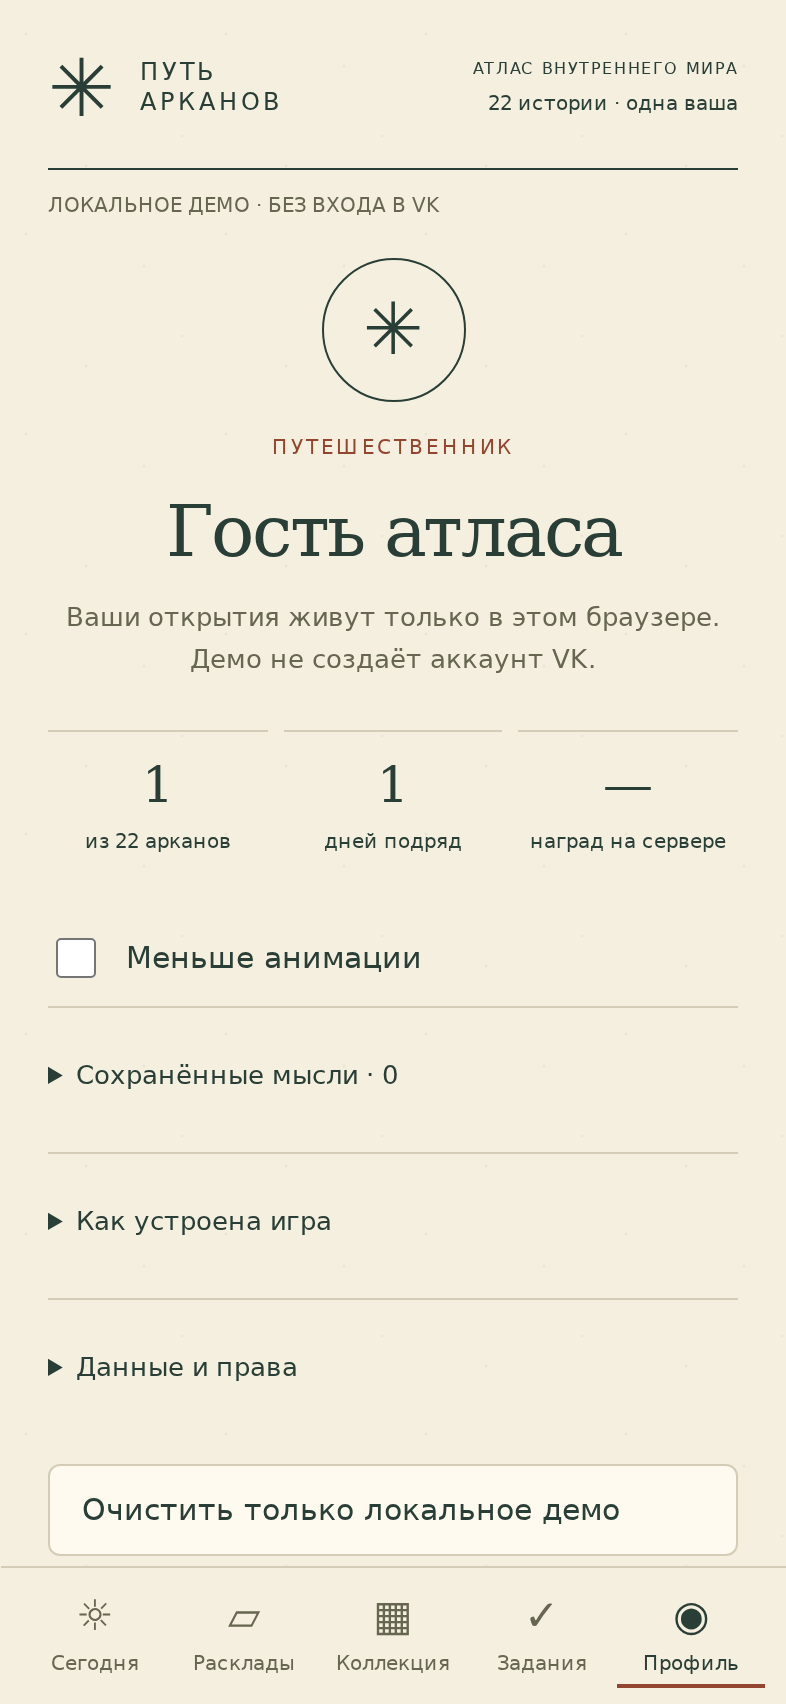
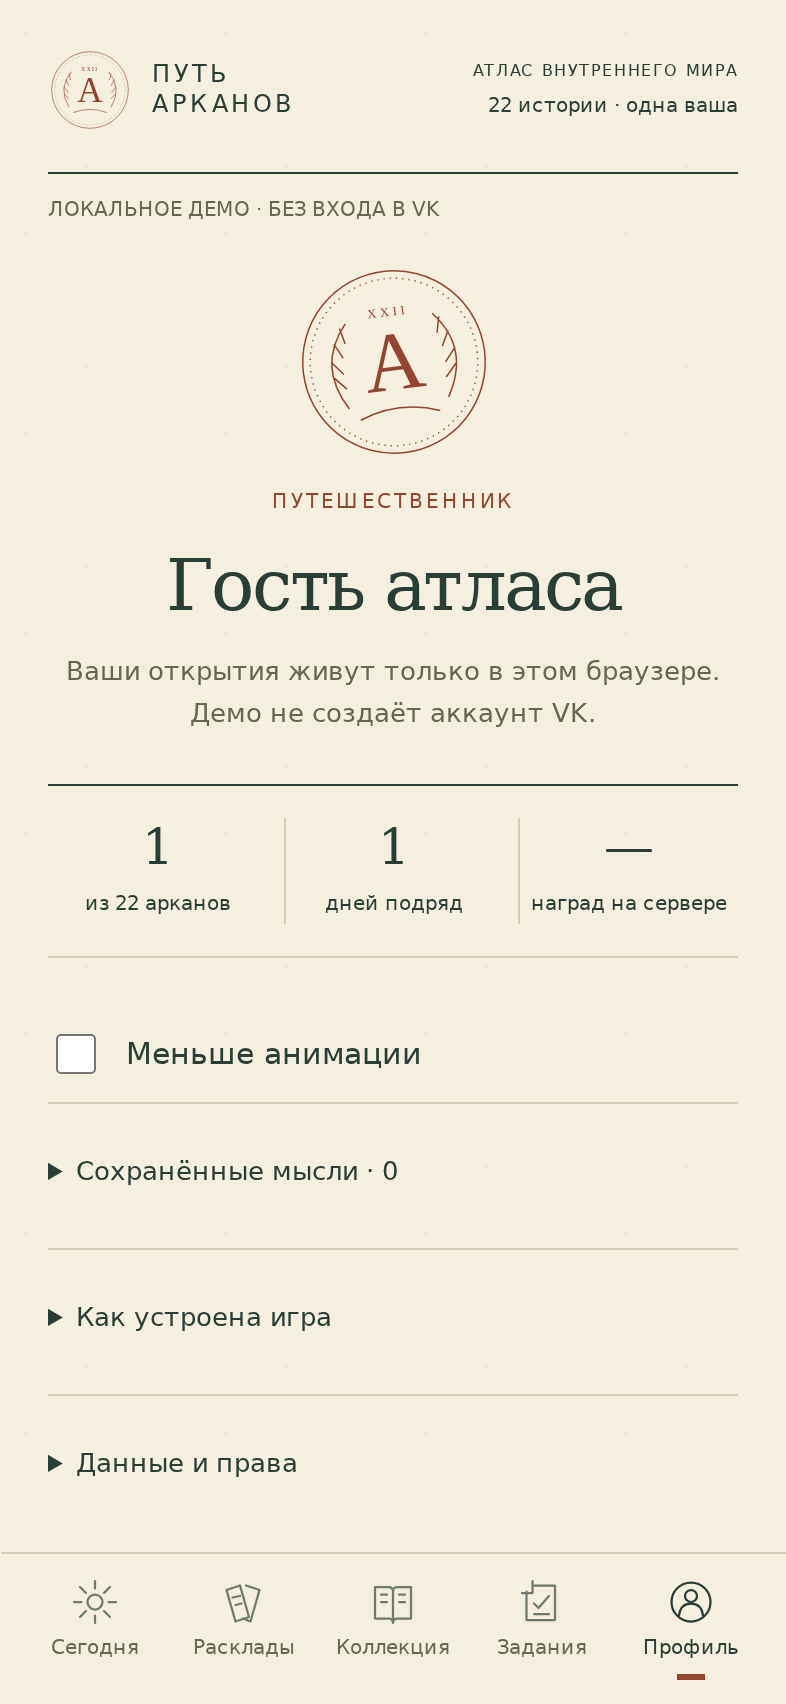
design(v6): give the atlas original seals, folios and compact card galleries

diff --git a/v6/app.js b/v6/app.js
@@ -40,7 +40,7 @@ function progressMeter(){
   const meter=el('progress','meter');meter.max=22;meter.value=count;meter.setAttribute('aria-label','Собрано арканов');
   section.append(row,meter,el('p','small',count===22?'Атлас собран. У знакомых карт всегда есть новые вопросы.':`Следующая глава — ${count<5?'5':count<10?'10':'22'} открытых арканов. Возвращайтесь за новой картой.`));return section;
 }
-function topicPicker(){const group=el('div','topics');group.setAttribute('role','group');group.setAttribute('aria-label','Тема размышления');TOPICS.forEach(t=>{const b=button('',()=>{topic=t.id;render();});b.setAttribute('aria-pressed',String(topic===t.id));b.append(el('span','topic-icon',t.icon),el('span','',t.name));group.append(b);});return group;}
+function topicPicker(){const group=el('div','topics');group.setAttribute('role','group');group.setAttribute('aria-label','Тема размышления');TOPICS.forEach((t,i)=>{const b=button('',()=>{topic=t.id;render();});b.setAttribute('aria-pressed',String(topic===t.id));b.append(el('span','topic-icon',String(i+1).padStart(2,'0')),el('span','',t.name));group.append(b);});return group;}
 function renderToday(){
   const head=el('header','today-heading'),date=new Intl.DateTimeFormat('ru',{day:'numeric',month:'long',timeZone:'UTC'}).format(new Date(progress.dayUtc+'T12:00:00Z'));
   head.append(el('p','eyebrow',`${date} · ${mode==='demo'?'дата устройства':'дата сервера'} · UTC`),el('h1','',progress.dailyCardDrawn?'Ваша история сегодня':'Маленькая пауза.\nНовый взгляд.'),el('p','intro',progress.dailyCardDrawn?'Одна карта. Столько способов услышать себя.':'Сделайте вдох. Коснитесь колоды и найдите мысль, которую возьмёте с собой.'));
@@ -72,7 +72,7 @@ async function drawDaily(){
 function renderReadings(){
   main.append(header('ЗАЛ РАСКЛАДОВ','О чём поговорим?','Выберите тему. Карты предложат вопросы — ответы остаются за вами.'),topicPicker());
   const options=el('div','spread-options');
-  for(const count of [1,3]){const b=operation('',()=>drawSpread(count),'');b.id=`spread-${count}`;b.disabled=busy||(mode==='signed'&&!verified);b.append(el('strong','',count===1?'Одна карта':'Три карты'),el('small','',count===1?'Один вопрос.\nНовый угол зрения.':'Опыт, настоящее\nи следующий шаг.'));options.append(b);}main.append(options);
+  for(const count of [1,3]){const b=operation('',()=>drawSpread(count),'');b.id=`spread-${count}`;b.disabled=busy||(mode==='signed'&&!verified);b.append(el('span','spread-number',count===1?'I':'III'),el('strong','',count===1?'Одна карта':'Три карты'),el('small','',count===1?'Один вопрос.\nНовый угол зрения.':'Опыт, настоящее\nи следующий шаг.'));options.append(b);}main.append(options);
   if(!spread){main.append(el('p','subtle','Расклады не расходуют и не начисляют награды.'));return;}
   const activeTopic=TOPICS.find(t=>t.id===spreadTopic);main.append(el('p','eyebrow',`Расклад · ${activeTopic.name}`));
   const deck=el('div','spread-deck'+(spread.cards.length===1?' single':''));deck.id='reading-deck';
@@ -96,8 +96,10 @@ async function drawSpread(count){
 }
 function renderCollection(){
   main.append(header('ВАШ ЛИЧНЫЙ АТЛАС','Коллекция арканов',`${progress.arcana.length} из 22 историй открыто. Каждая карта — новая грань знакомого мира.`));
+  const folio=el('div','catalog-folio');folio.append(el('span','','СТАРШИЕ АРКАНЫ'),el('span','',`${String(progress.arcana.length).padStart(2,'0')} / XXII`));main.append(folio);
   const grid=el('div','collection-grid');grid.id='collection-grid';
-  ARCANA.forEach(c=>{const known=progress.arcana.includes(c.id),b=button('',()=>showDetail(c.id,known),'collection-card'+(known?'':' locked'));b.setAttribute('aria-label',known?`Открыто: ${c.name}`:`Не открыт: аркан ${c.id}`);b.append(picture(c.id,!known),el('span','',known?c.name:'Неизвестный аркан'),el('span','number',String(c.id).padStart(2,'0')));grid.append(b);});main.append(grid);
+  const catalog=[...ARCANA].sort((a,b)=>Number(progress.arcana.includes(b.id))-Number(progress.arcana.includes(a.id)));
+  catalog.forEach(c=>{const known=progress.arcana.includes(c.id),b=button('',()=>showDetail(c.id,known),'collection-card'+(known?'':' locked'));b.setAttribute('aria-label',known?`Открыто: ${c.name}`:`Не открыт: аркан ${c.id}`);b.append(picture(c.id,!known),el('span','',known?c.name:'Неизвестный аркан'),el('span','number',String(c.id).padStart(2,'0')));grid.append(b);});main.append(grid);
 }
 function showDetail(id,known){
   const c=ARCANA[id],root=$('detail-content');root.replaceChildren();const heading=el('h2','',known?c.name:'Ещё одна история впереди');heading.id='detail-title';
@@ -118,7 +120,7 @@ async function claimDaily(){
   catch(e){if(epoch===generation)handleError(e);}finally{if(epoch===generation){setBusy(false);render();}}
 }
 function renderProfile(){
-  const head=el('div','profile-title');head.append(el('div','profile-emblem','✳'),el('p','eyebrow','ПУТЕШЕСТВЕННИК'),el('h1','',mode==='demo'?'Гость атласа':nickname||'Ваш путь'),el('p','intro',mode==='demo'?'Ваши открытия живут только в этом браузере. Демо не создаёт аккаунт VK.':verified?'Ваши карты и серия дней подтверждены сервером.':'Откройте приложение через VK для подтверждения входа.'));main.append(head);
+  const head=el('div','profile-title'),seal=el('img','profile-emblem');seal.src='./assets/seal.svg';seal.alt='';seal.width=100;seal.height=100;head.append(seal,el('p','eyebrow','ПУТЕШЕСТВЕННИК'),el('h1','',mode==='demo'?'Гость атласа':nickname||'Ваш путь'),el('p','intro',mode==='demo'?'Ваши открытия живут только в этом браузере. Демо не создаёт аккаунт VK.':verified?'Ваши карты и серия дней подтверждены сервером.':'Откройте приложение через VK для подтверждения входа.'));main.append(head);
   const stats=el('div','stats');[[progress.arcana.length,'из 22 арканов'],[progress.streak,'дней подряд'],[mode==='demo'?'—':progress.crystals,'наград на сервере']].forEach(([value,label])=>{const stat=el('div','stat');stat.append(el('strong','',value),el('span','',label));stats.append(stat);});main.append(stats);
   if(mode==='signed'&&verified){main.append(operation('Обновить прогресс с сервера',loadSigned,''),button('Показать моё имя из VK',loadNickname,'link-button'));}
   const label=el('label','settings'),check=el('input');check.type='checkbox';check.checked=document.body.classList.contains('reduce-motion');check.addEventListener('change',()=>{document.body.classList.toggle('reduce-motion',check.checked);try{storage.setItem('arcana.v6.motion',check.checked?'reduce':'system');}catch{}});label.append(check,el('span','','Меньше анимации'));main.append(label);

diff --git a/v6/demo.html b/v6/demo.html
@@ -1,0 +1,37 @@
+<!doctype html>
+<html lang="ru">
+<head>
+  <meta name="arcana-demo-only" content="true">
+  <meta charset="utf-8">
+  <meta name="viewport" content="width=device-width, initial-scale=1, viewport-fit=cover">
+  <meta name="referrer" content="no-referrer">
+  <meta name="robots" content="noindex,nofollow,noarchive">
+  <meta http-equiv="Content-Security-Policy" content="default-src 'none'; script-src 'self'; style-src 'self'; font-src 'self'; img-src 'self'; connect-src 'self'; worker-src 'self'; manifest-src 'self'; base-uri 'none'; form-action 'none'">
+  <meta name="theme-color" content="#f5efdf">
+  <title>Путь Арканов · маленький ритуал для себя</title>
+  <script src="./vendor/vk-bridge-2.14.0.min.js"></script>
+  <script src="./startup.js"></script>
+  <link rel="stylesheet" href="./style.css">
+  <script type="module" src="./app.js"></script>
+</head>
+<body>
+  <a class="skip" href="#content">К содержимому</a>
+  <div class="app-shell">
+    <header class="masthead"><a href="./index.html" class="brand" aria-label="Путь Арканов, главная"><img src="./assets/seal.svg" width="42" height="42" alt=""><span>ПУТЬ<br>АРКАНОВ</span></a><span class="edition">АТЛАС ВНУТРЕННЕГО МИРА<br><b>22 истории · одна ваша</b></span></header>
+    <div class="mode-line"><span id="mode">Открываем колоду…</span><span id="connection"></span></div>
+    <aside id="notice" role="status" aria-live="polite" hidden></aside>
+    <div id="recovery" hidden><button id="retry" type="button">Повторить соединение</button><button id="demo" type="button">Открыть локальное демо</button><p>Если сам адрес не открывается, смените сеть или используйте альтернативную демо-ссылку из отчёта проверки. Перезагрузка интерфейса не устраняет блокировку хостинга.</p></div>
+    <main id="content" tabindex="-1"><h1>Маленькая пауза.<br>Новый взгляд.</h1><p>Колода загружается. Если это занимает больше нескольких секунд, проверьте соединение.</p><button type="button" id="startup-retry" hidden>Загрузить ещё раз</button></main>
+    <footer class="disclaimer">Для размышления, а не предсказания будущего.</footer>
+  </div>
+  <nav class="bottom-nav" aria-label="Разделы игры">
+    <button type="button" data-tab="today" aria-current="page"><img src="./assets/nav-today.svg" width="24" height="24" alt="">Сегодня</button>
+    <button type="button" data-tab="readings"><img src="./assets/nav-readings.svg" width="24" height="24" alt="">Расклады</button>
+    <button type="button" data-tab="collection"><img src="./assets/nav-collection.svg" width="24" height="24" alt="">Коллекция</button>
+    <button type="button" data-tab="quests"><img src="./assets/nav-quests.svg" width="24" height="24" alt="">Задания</button>
+    <button type="button" data-tab="profile"><img src="./assets/nav-profile.svg" width="24" height="24" alt="">Профиль</button>
+  </nav>
+  <dialog id="details" aria-labelledby="detail-title"><button type="button" id="close-details" aria-label="Закрыть карточку">×</button><div id="detail-content"></div></dialog>
+  <noscript><p>Для переворота карт нужен JavaScript. Разрешите его для этой страницы и обновите её. Данные ВК без подтверждённого входа недоступны.</p></noscript>
+</body>
+</html>

diff --git a/v6/index.html b/v6/index.html
@@ -16,7 +16,7 @@
 <body>
   <a class="skip" href="#content">К содержимому</a>
   <div class="app-shell">
-    <header class="masthead"><a href="./index.html" class="brand" aria-label="Путь Арканов, главная"><span aria-hidden="true">✳</span><span>ПУТЬ<br>АРКАНОВ</span></a><span class="edition">АТЛАС ВНУТРЕННЕГО МИРА<br><b>22 истории · одна ваша</b></span></header>
+    <header class="masthead"><a href="./index.html" class="brand" aria-label="Путь Арканов, главная"><img src="./assets/seal.svg" width="42" height="42" alt=""><span>ПУТЬ<br>АРКАНОВ</span></a><span class="edition">АТЛАС ВНУТРЕННЕГО МИРА<br><b>22 истории · одна ваша</b></span></header>
     <div class="mode-line"><span id="mode">Открываем колоду…</span><span id="connection"></span></div>
     <aside id="notice" role="status" aria-live="polite" hidden></aside>
     <div id="recovery" hidden><button id="retry" type="button">Повторить соединение</button><button id="demo" type="button">Открыть локальное демо</button><p>Если сам адрес не открывается, смените сеть или используйте альтернативную демо-ссылку из отчёта проверки. Перезагрузка интерфейса не устраняет блокировку хостинга.</p></div>
@@ -24,11 +24,11 @@
     <footer class="disclaimer">Для размышления, а не предсказания будущего.</footer>
   </div>
   <nav class="bottom-nav" aria-label="Разделы игры">
-    <button type="button" data-tab="today" aria-current="page"><span aria-hidden="true">☼</span>Сегодня</button>
-    <button type="button" data-tab="readings"><span aria-hidden="true">▱</span>Расклады</button>
-    <button type="button" data-tab="collection"><span aria-hidden="true">▦</span>Коллекция</button>
-    <button type="button" data-tab="quests"><span aria-hidden="true">✓</span>Задания</button>
-    <button type="button" data-tab="profile"><span aria-hidden="true">◉</span>Профиль</button>
+    <button type="button" data-tab="today" aria-current="page"><img src="./assets/nav-today.svg" width="24" height="24" alt="">Сегодня</button>
+    <button type="button" data-tab="readings"><img src="./assets/nav-readings.svg" width="24" height="24" alt="">Расклады</button>
+    <button type="button" data-tab="collection"><img src="./assets/nav-collection.svg" width="24" height="24" alt="">Коллекция</button>
+    <button type="button" data-tab="quests"><img src="./assets/nav-quests.svg" width="24" height="24" alt="">Задания</button>
+    <button type="button" data-tab="profile"><img src="./assets/nav-profile.svg" width="24" height="24" alt="">Профиль</button>
   </nav>
   <dialog id="details" aria-labelledby="detail-title"><button type="button" id="close-details" aria-label="Закрыть карточку">×</button><div id="detail-content"></div></dialog>
   <noscript><p>Для переворота карт нужен JavaScript. Разрешите его для этой страницы и обновите её. Данные ВК без подтверждённого входа недоступны.</p></noscript>

diff --git a/v6/style.css b/v6/style.css
@@ -7,3 +7,41 @@
 @media(min-width:700px){.app-shell{padding-top:36px}.stage{min-height:350px}.stage>.flip-card{width:192px}}
 
 .preserve-lines{white-space:pre-line}.reversed-art{transform:rotate(180deg)}
+
+/* The atlas uses the grammar of a printed field journal: folios, ruled
+   indexes, a publisher's seal and a walking line through daily tasks. */
+.app-shell{padding-top:max(24px,env(safe-area-inset-top))}
+.brand img{display:block;width:42px;height:42px}
+.bottom-nav img{display:block;width:24px;height:24px;opacity:.65}
+.bottom-nav [aria-current] img{opacity:1}
+.bottom-nav button[aria-current]{box-shadow:none}
+.bottom-nav button[aria-current]:after{content:'';height:3px;width:14px;background:var(--accent);margin-top:2px}
+.stage:after{content:'ЕЖЕДНЕВНЫЙ РИТУАЛ';writing-mode:vertical-rl;font-family:var(--sans);font-size:8px;letter-spacing:2.5px;right:3%;top:78px}
+.primary{border-radius:2px}
+.topics{gap:0 18px}
+.topics button{border:0;border-bottom:1px solid var(--line);border-radius:0;padding:13px 0;min-height:54px}
+.topics button[aria-pressed=true]{background:transparent;color:var(--ink);border-bottom:2px solid var(--accent)}
+.topics .topic-icon{font-family:var(--serif);font-size:15px;color:var(--muted)}
+.topics button[aria-pressed=true] .topic-icon{color:var(--accent)}
+.spread-options{gap:20px;margin-top:26px}
+.spread-options button{border:0;border-top:1px solid var(--ink);border-bottom:1px solid var(--line);border-radius:0;background:transparent;padding:14px 0 18px}
+.spread-number{display:block;font-family:var(--serif);font-size:44px;line-height:1.1;color:var(--accent);margin-bottom:12px}
+.spread-options small{white-space:pre-line;color:var(--muted)}
+.catalog-folio{display:flex;justify-content:space-between;gap:12px;font-size:9px;letter-spacing:1.5px;border-bottom:1px solid var(--ink);padding-bottom:12px;margin-bottom:20px}
+.collection-card img{height:auto;border-radius:2px}
+.collection-card .number{font-family:var(--serif);font-size:11px;letter-spacing:2px}
+.collection-card.locked img{opacity:.8}
+.collection-card{padding-bottom:10px;border-bottom:1px solid var(--line)}
+#detail-content img{height:auto}
+.quest{position:relative;border-bottom:0;padding-bottom:24px}
+.quest:before{content:'';position:absolute;left:13px;top:48px;bottom:-20px;border-left:1px dashed var(--line)}
+.quest:last-of-type:before{display:none}
+.quest-mark{position:relative;z-index:1;background:var(--paper)}
+.quest h3{font-family:var(--serif);font-weight:400;font-size:19px}
+.profile-emblem{display:block;width:100px;height:100px;margin:0 auto 12px;border:0;border-radius:0;transform:rotate(-7deg)}
+.stats{border-top:1px solid var(--ink);border-bottom:1px solid var(--line);padding:16px 0}
+.stat{border-top:0;padding-top:0}
+.stat+ .stat{border-left:1px solid var(--line)}
+.skip{transform:translateY(-160%);top:0}
+.skip:focus{transform:none;top:10px}
+@media(max-width:360px){.stage:after{right:0;font-size:7px}.topics{gap:0 12px}.topics button{font-size:12px;gap:8px}.spread-options strong{font-size:18px}.catalog-folio{font-size:8px;letter-spacing:1px}}

diff --git a/v6/sw.js b/v6/sw.js
@@ -1,6 +1,6 @@
 // Generated by scripts/v6-build.mjs. Cache only this explicit public static allowlist.
-const CACHE='arcana-v6-55303eb4171dd257';
-const FILES=["./index.html","./style.css","./startup.js","./app.js","./game.mjs","./content.mjs","./LICENSES.txt","./assets/back.svg","./assets/grain.svg","./assets/serif.woff","./assets/sans.woff","./assets/FONT-LICENSE.txt","./vendor/vk-bridge-2.14.0.min.js","./vendor/VK-BRIDGE-LICENSE.txt","./assets/cards/0.svg","./assets/cards/1.svg","./assets/cards/10.svg","./assets/cards/11.svg","./assets/cards/12.svg","./assets/cards/13.svg","./assets/cards/14.svg","./assets/cards/15.svg","./assets/cards/16.svg","./assets/cards/17.svg","./assets/cards/18.svg","./assets/cards/19.svg","./assets/cards/2.svg","./assets/cards/20.svg","./assets/cards/21.svg","./assets/cards/3.svg","./assets/cards/4.svg","./assets/cards/5.svg","./assets/cards/6.svg","./assets/cards/7.svg","./assets/cards/8.svg","./assets/cards/9.svg"];
+const CACHE='arcana-v6-27eb32af3816e7db';
+const FILES=["./index.html","./demo.html","./style.css","./startup.js","./app.js","./game.mjs","./content.mjs","./LICENSES.txt","./assets/back.svg","./assets/grain.svg","./assets/serif.woff","./assets/sans.woff","./assets/FONT-LICENSE.txt","./assets/seal.svg","./assets/nav-today.svg","./assets/nav-readings.svg","./assets/nav-collection.svg","./assets/nav-quests.svg","./assets/nav-profile.svg","./vendor/vk-bridge-2.14.0.min.js","./vendor/VK-BRIDGE-LICENSE.txt","./assets/cards/0.svg","./assets/cards/1.svg","./assets/cards/10.svg","./assets/cards/11.svg","./assets/cards/12.svg","./assets/cards/13.svg","./assets/cards/14.svg","./assets/cards/15.svg","./assets/cards/16.svg","./assets/cards/17.svg","./assets/cards/18.svg","./assets/cards/19.svg","./assets/cards/2.svg","./assets/cards/20.svg","./assets/cards/21.svg","./assets/cards/3.svg","./assets/cards/4.svg","./assets/cards/5.svg","./assets/cards/6.svg","./assets/cards/7.svg","./assets/cards/8.svg","./assets/cards/9.svg"];
 const urls=FILES.map(x=>new URL(x,self.registration.scope).href);
 self.addEventListener('install',event=>event.waitUntil(caches.open(CACHE).then(cache=>cache.addAll(urls))));
 self.addEventListener('activate',event=>event.waitUntil(caches.keys().then(keys=>Promise.all(keys.filter(k=>k.startsWith('arcana-v6-')&&k!==CACHE).map(k=>caches.delete(k)))).then(()=>self.clients.claim())));
